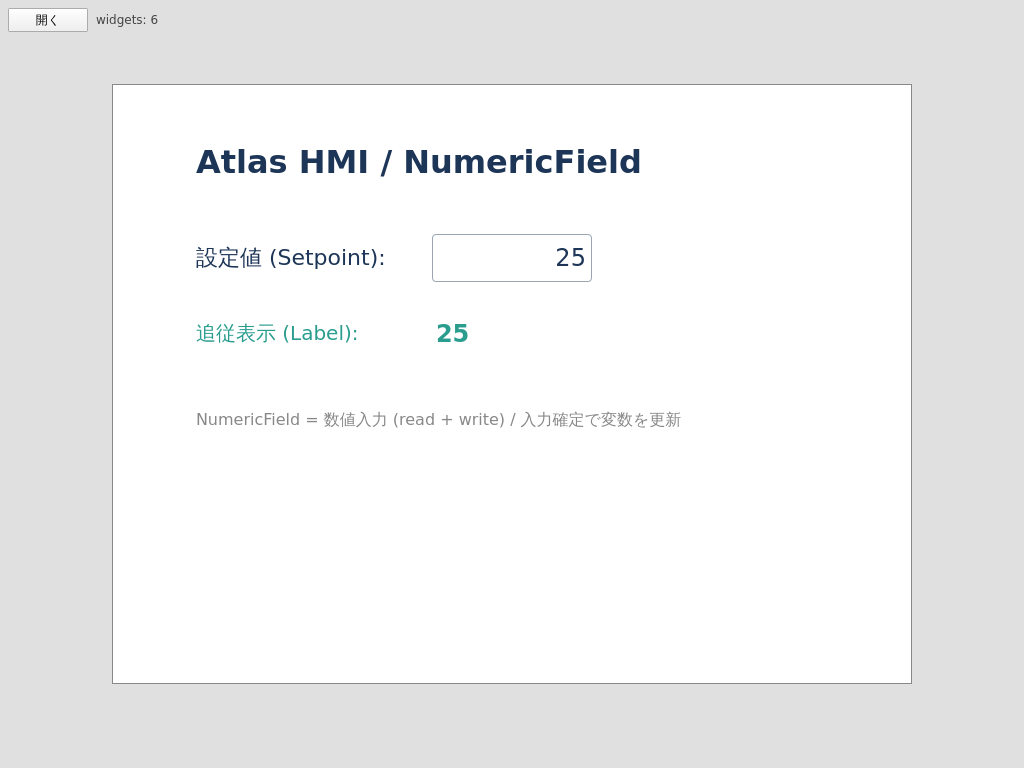
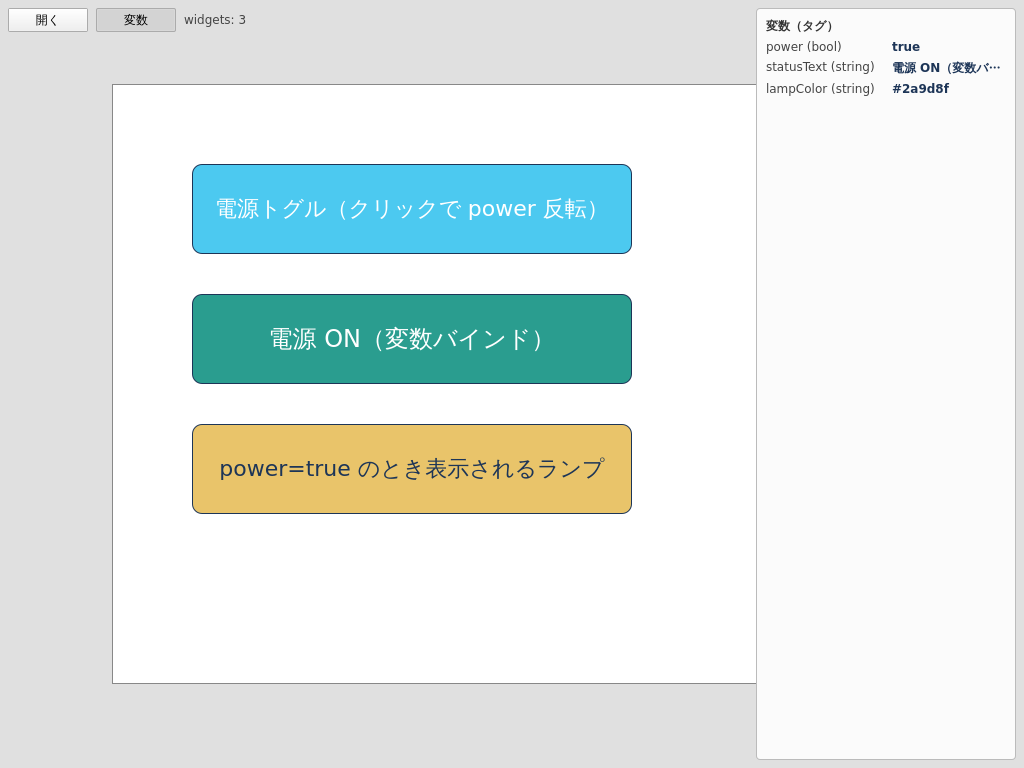
Simulator: 変数（タグ）デバッグパネルを追加
実行時の変数（タグ）現在値を画面でライブ確認できるデバッグパネルを
Simulator/Runtime（共有ソース）に追加する。

背景:
- checkable:false のボタンに checked をバインドした場合、変数・checked
  プロパティ自体は正しく更新されるが、HmiButton の見た目は
  `checkable && checked` でゲートされ変化しない。そのため「バインディングが
  効いていない」ように見える（実際はデータは効いている）。
- 内部の変数値が変化したかを画面で確認する手段が無かった。

変更:
- ツールバーに「変数」トグルボタン（既定は非表示）。
- 右側に `変数名 (型) = 現在値` を一覧表示するパネル。値は
  VariableStore.values を読むバインディングでライブ追従する（setVariable /
  toggleVariable / 入力確定で変数が変わると即更新。Task 41 と同じ依存追跡）。
- 変数未定義の JSON では案内文を表示。
- Window に id: rootWindow を付与（トグル参照のため。Editor と同じ命名）。

テスト:
- tst_simulator_var_panel.qml を追加（本体 Main.qml を生成して検証）。
  変数一覧表示・値のライブ追従・変数 0 件時の案内を固定。
- これに伴い tst_hmi_simulator_qml へ hmi_simulator_qmlplugin をリンク
  （Main.qml が import HmiSimulator するため）。
- 全 10 ctest 緑（unit + qml）。

README のヒーロースクショ（simulator.png）とキャプションをパネル表示込みで更新。

diff --git a/Simulator/qml/Main.qml b/Simulator/qml/Main.qml
@@ -3,8 +3,11 @@ import QtQuick.Window
 import QtQuick.Controls
 import QtQuick.Dialogs
 import HmiSimulator
+// 変数デバッグパネル（下記）が VariableStore（実行時の変数現在値ストア）を直接読むため。
+import HmiWidgets
 
 Window {
+    id: rootWindow
     width: 1024
     height: 768
     visible: true
@@ -12,6 +15,9 @@ Window {
     // Task 20: Spix からの参照パス解決のため Window に objectName を付与する。
     // Editor 側（hmiEditorWindow）と同じ命名規則。
     objectName: "hmiSimulatorWindow"
+
+    // 変数デバッグパネルの表示状態（既定は非表示）。ツールバーの「変数」トグルで切替える。
+    property bool showVarPanel: false
 
     // 薄いグレーの余白背景
     Rectangle {
@@ -32,6 +38,19 @@ Window {
                 onClicked: openDialog.open()
             }
 
+            // 変数（タグ）デバッグパネルの表示トグル。checkable:false のボタンに checked を
+            // バインドした時のように「見た目は変わらないが内部の変数値は変化している」ケースを、
+            // 実行時の現在値を一覧表示して確認できるようにする（Simulator は読み取り専用の
+            // 試験環境なのでデバッグ表示があると挙動確認が速い）。
+            Button {
+                id: varPanelToggle
+                objectName: "varPanelToggle"
+                text: qsTr("変数")
+                checkable: true
+                checked: rootWindow.showVarPanel
+                onClicked: rootWindow.showVarPanel = !rootWindow.showVarPanel
+            }
+
             Label {
                 anchors.verticalCenter: parent.verticalCenter
                 // `loaded` フラグで「未読込」と「読込成功（空含む）」を区別する。
@@ -49,6 +68,85 @@ Window {
             anchors.centerIn: parent
             canvasWidth: 800
             canvasHeight: 600
+        }
+
+        // ── 変数（タグ）デバッグパネル ──────────────────────────────
+        // 実行時の変数現在値（VariableStore.values）と定義（canvas.variableModel）を
+        // ライブ表示する。VariableStore.values は再代入で変更通知されるため、各行の値
+        // バインディング（VariableStore.values[name]）は setVariable / toggleVariable /
+        // 入力確定で変数が変わるたび自動更新される（Task 41 の boundValue と同じ依存追跡）。
+        // 用途：checkable:false のボタンに checked をバインドした等「見た目は不変でも内部値は
+        // 変化している」ケースを、画面で直接確認できるようにする。
+        Rectangle {
+            id: varPanel
+            objectName: "varPanel"
+            visible: rootWindow.showVarPanel
+            anchors.right: parent.right
+            anchors.top: parent.top
+            anchors.bottom: parent.bottom
+            anchors.margins: 8
+            width: 260
+            color: "#fbfbfb"
+            border.color: "#bbbbbb"
+            border.width: 1
+            radius: 4
+
+            Column {
+                anchors.fill: parent
+                anchors.margins: 10
+                spacing: 6
+
+                Label {
+                    text: qsTr("変数（タグ）")
+                    font.bold: true
+                    color: "#333333"
+                }
+
+                // 定義が無い（変数未設定の JSON）ときの案内。
+                Label {
+                    width: parent.width
+                    visible: !canvas.variableModel || canvas.variableModel.length === 0
+                    text: qsTr("変数が定義されていません")
+                    color: "#888888"
+                    wrapMode: Text.WordWrap
+                }
+
+                // 各変数を 1 行（name : value）で表示。type も添える。
+                Repeater {
+                    model: canvas.variableModel
+                    delegate: Row {
+                        required property var modelData
+                        objectName: "varRow_" + (modelData && modelData.name !== undefined
+                                                 ? modelData.name : "")
+                        width: varPanel.width - 20
+                        spacing: 6
+
+                        Label {
+                            width: parent.width * 0.5
+                            elide: Text.ElideRight
+                            color: "#444444"
+                            text: (modelData ? modelData.name : "")
+                                  + " (" + (modelData && modelData.type !== undefined
+                                            ? modelData.type : "string") + ")"
+                        }
+                        Label {
+                            objectName: "varValue"
+                            width: parent.width * 0.5 - parent.spacing
+                            elide: Text.ElideRight
+                            font.bold: true
+                            color: "#1d3557"
+                            // 現在値（VariableStore.values）をライブ表示。未初期化は "—"。
+                            text: {
+                                if (!modelData || modelData.name === undefined) {
+                                    return "—"
+                                }
+                                const v = VariableStore.values[modelData.name]
+                                return v === undefined ? "—" : String(v)
+                            }
+                        }
+                    }
+                }
+            }
         }
     }
 

diff --git a/Simulator/tests/tst_simulator_var_panel.qml b/Simulator/tests/tst_simulator_var_panel.qml
@@ -1,0 +1,136 @@
+import QtQuick
+import QtTest
+import HmiWidgets
+
+// 変数（タグ）デバッグパネルの検証。本体 Main.qml（Window）を生成し、
+//   - 変数定義（variableModel）が一覧に出る
+//   - 現在値（VariableStore.values）が setVariable / toggleVariable 等で変わると
+//     パネルの値表示がライブ追従する（同じ依存追跡で再評価される）
+// ことを固定する。Main.qml は `import HmiSimulator`（SimulatorCanvas）するため、
+// 実行体に hmi_simulator_qmlplugin をリンクして解決する（CMakeLists 参照）。
+//
+// Main.qml の Component.onCompleted は `typeof initialJsonUrl !== "undefined"` を
+// ガードにしており、テストでは initialJsonUrl / projectLoader を渡さないので
+// 起動時自動ロードは走らない（パネルだけを直接駆動できる）。
+Item {
+    id: root
+    width: 1024
+    height: 768
+
+    property var win: null
+
+    // Window の可視ツリーは contentItem 配下にあるため、children だけでなく
+    // contentItem も再帰的に辿って objectName 一致ノードを探す。
+    function findByObjectName(node, name) {
+        if (!node)
+            return null
+        if (node.objectName === name)
+            return node
+        const kids = node.children
+        if (kids) {
+            for (let i = 0; i < kids.length; ++i) {
+                const r = findByObjectName(kids[i], name)
+                if (r)
+                    return r
+            }
+        }
+        if (node.contentItem) {
+            const r = findByObjectName(node.contentItem, name)
+            if (r)
+                return r
+        }
+        return null
+    }
+
+    TestCase {
+        name: "SimulatorVarPanel"
+        when: windowShown
+
+        function init() {
+            // singleton はテスト間で状態を共有するため毎回リセットする。
+            VariableStore.clear()
+        }
+
+        function cleanup() {
+            if (root.win) {
+                root.win.destroy()
+                root.win = null
+            }
+        }
+
+        function createWindow() {
+            const comp = Qt.createComponent(Qt.resolvedUrl("../qml/Main.qml"))
+            compare(comp.status, Component.Ready, comp.errorString())
+            const w = comp.createObject(root)
+            verify(w, "Main.qml create failed")
+            root.win = w
+            return w
+        }
+
+        // 変数定義が一覧に並び、現在値が変数更新でライブ追従する。
+        function test_panel_lists_variables_and_follows_live_value() {
+            const w = createWindow()
+            w.showVarPanel = true
+
+            // 実行ストアを初期値で用意し、同じ定義をパネルの model（canvas.variableModel）へ流す。
+            const defs = [
+                { name: "flag", type: "bool", initial: "false" },
+                { name: "level", type: "int", initial: "3" }
+            ]
+            VariableStore.initFrom(defs)
+            setCanvasVariableModel(w, defs)
+            wait(50)
+
+            const flagValue = findVarValue(w, "flag")
+            const levelValue = findVarValue(w, "level")
+            verify(flagValue, "flag 行が見つからない")
+            verify(levelValue, "level 行が見つからない")
+            compare(flagValue.text, "false")
+            compare(levelValue.text, "3")
+
+            // 変数を更新するとパネルの値表示がライブ追従する。
+            VariableStore.setValue("flag", true)
+            VariableStore.setValue("level", 42)
+            wait(50)
+            compare(flagValue.text, "true")
+            compare(levelValue.text, "42")
+        }
+
+        // 変数が無い JSON では案内文が出る（行は 0 件）。
+        function test_panel_shows_placeholder_when_no_variables() {
+            const w = createWindow()
+            w.showVarPanel = true
+            setCanvasVariableModel(w, [])
+            wait(50)
+            verify(!findVarValue(w, "flag"), "変数 0 件なのに行がある")
+        }
+
+        // ── ヘルパ ─────────────────────────────────────────────
+        // Main.qml 内の SimulatorCanvas（id: canvas）へ variableModel を流す。
+        // canvas は objectName 無しだが varPanel と兄弟なので、varPanel の parent
+        // （背景 Rectangle）の children から SimulatorCanvas を型で拾う。
+        function setCanvasVariableModel(w, model) {
+            const panel = findByObjectName(w, "varPanel")
+            verify(panel, "varPanel が見つからない")
+            const bg = panel.parent
+            for (let i = 0; i < bg.children.length; ++i) {
+                const ch = bg.children[i]
+                // SimulatorCanvas は variableModel / widgetModel / loaded を持つ。
+                if (ch !== panel && ch.variableModel !== undefined) {
+                    ch.variableModel = model
+                    return
+                }
+            }
+            verify(false, "SimulatorCanvas が見つからない")
+        }
+
+        // パネル内の変数 <name> 行の値ラベル（objectName: "varValue"）を返す。
+        function findVarValue(w, name) {
+            const rowObj = "varRow_" + name
+            const row = findByObjectName(w, rowObj)
+            if (!row)
+                return null
+            return findByObjectName(row, "varValue")
+        }
+    }
+}

diff --git a/README.md b/README.md
@@ -14,7 +14,7 @@ Editor。ツールバーで Widget 追加（ボタン / ラベル / 数値入力
 
 ![HMI Simulator](Docs/screenshots/simulator.png)
 
-Simulator（読み取り専用）。同じ JSON を描画し、変数・クリックアクション・バインディングも動く（ボタン操作や数値入力で変数が変わると、それを参照する Widget が追従）。
+Simulator（読み取り専用）。同じ JSON を描画し、変数・クリックアクション・バインディングも動く（ボタン操作や数値入力で変数が変わると、それを参照する Widget が追従）。ツールバーの「変数」トグルで、実行時のタグ（変数）現在値をライブ表示するデバッグパネルを開ける（右）。
 
 ## できること
 
